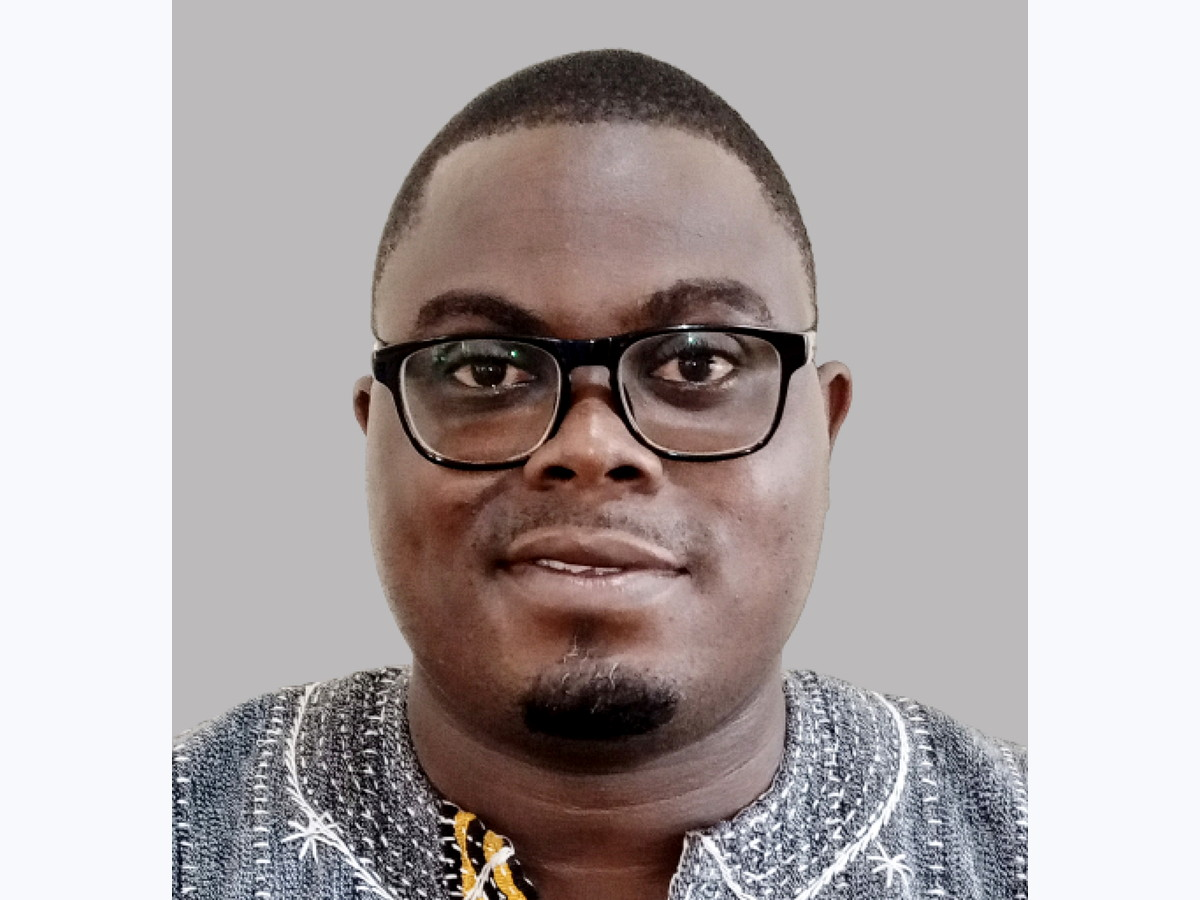
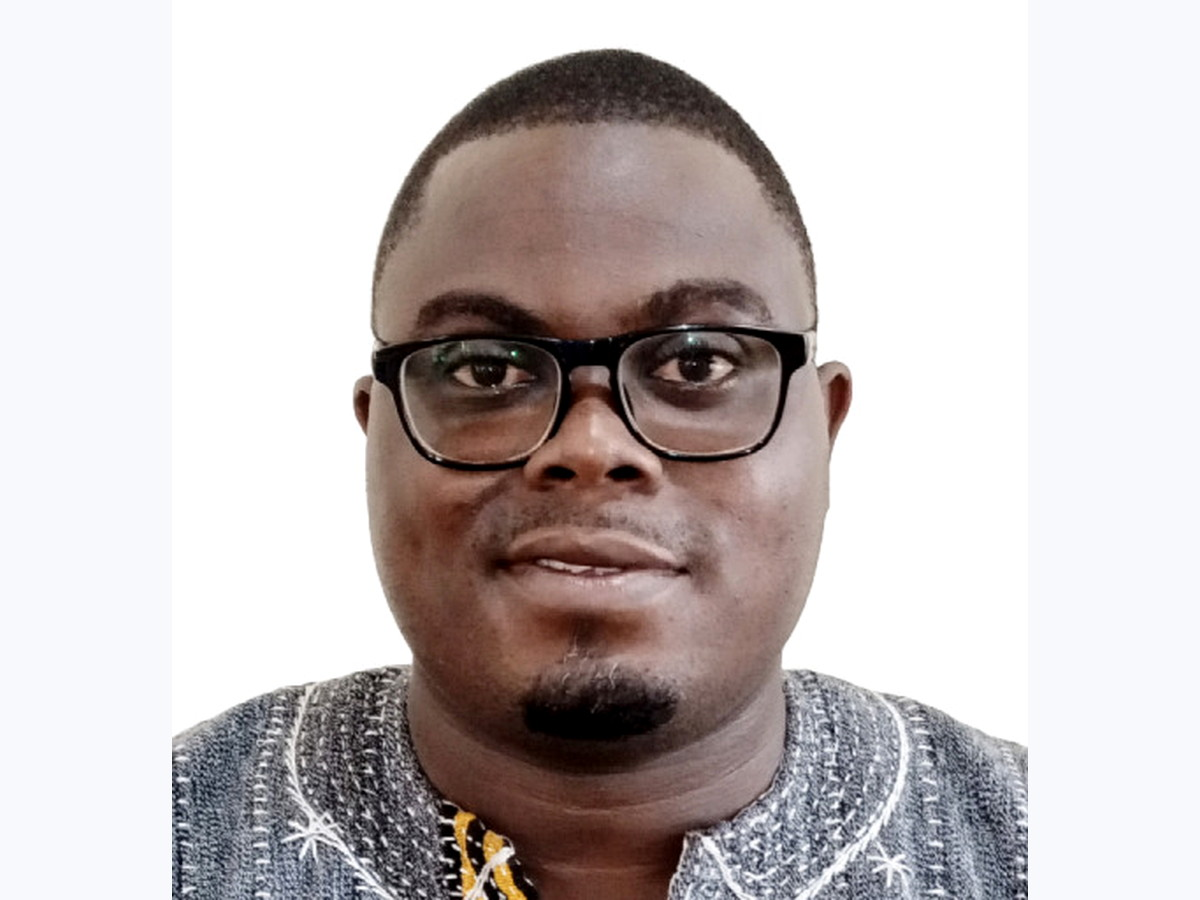
Update Dr. Sylvester Akpah board portrait

diff --git a/index.html b/index.html
@@ -2408,7 +2408,7 @@
       </article>
       <article class="board-card">
         <div class="board-card-media">
-          <img src="assets/leadership/sylvester-akpah.jpg" alt="Portrait of Dr. Sylvester Akpah" width="400" height="300" loading="lazy" decoding="async">
+          <img src="assets/leadership/sylvester-akpah.jpg?v=20260503j" alt="Portrait of Dr. Sylvester Akpah" width="400" height="300" loading="lazy" decoding="async">
         </div>
         <h3 class="team-name">Dr. Sylvester Akpah</h3>
         <p class="team-role">Director</p>
